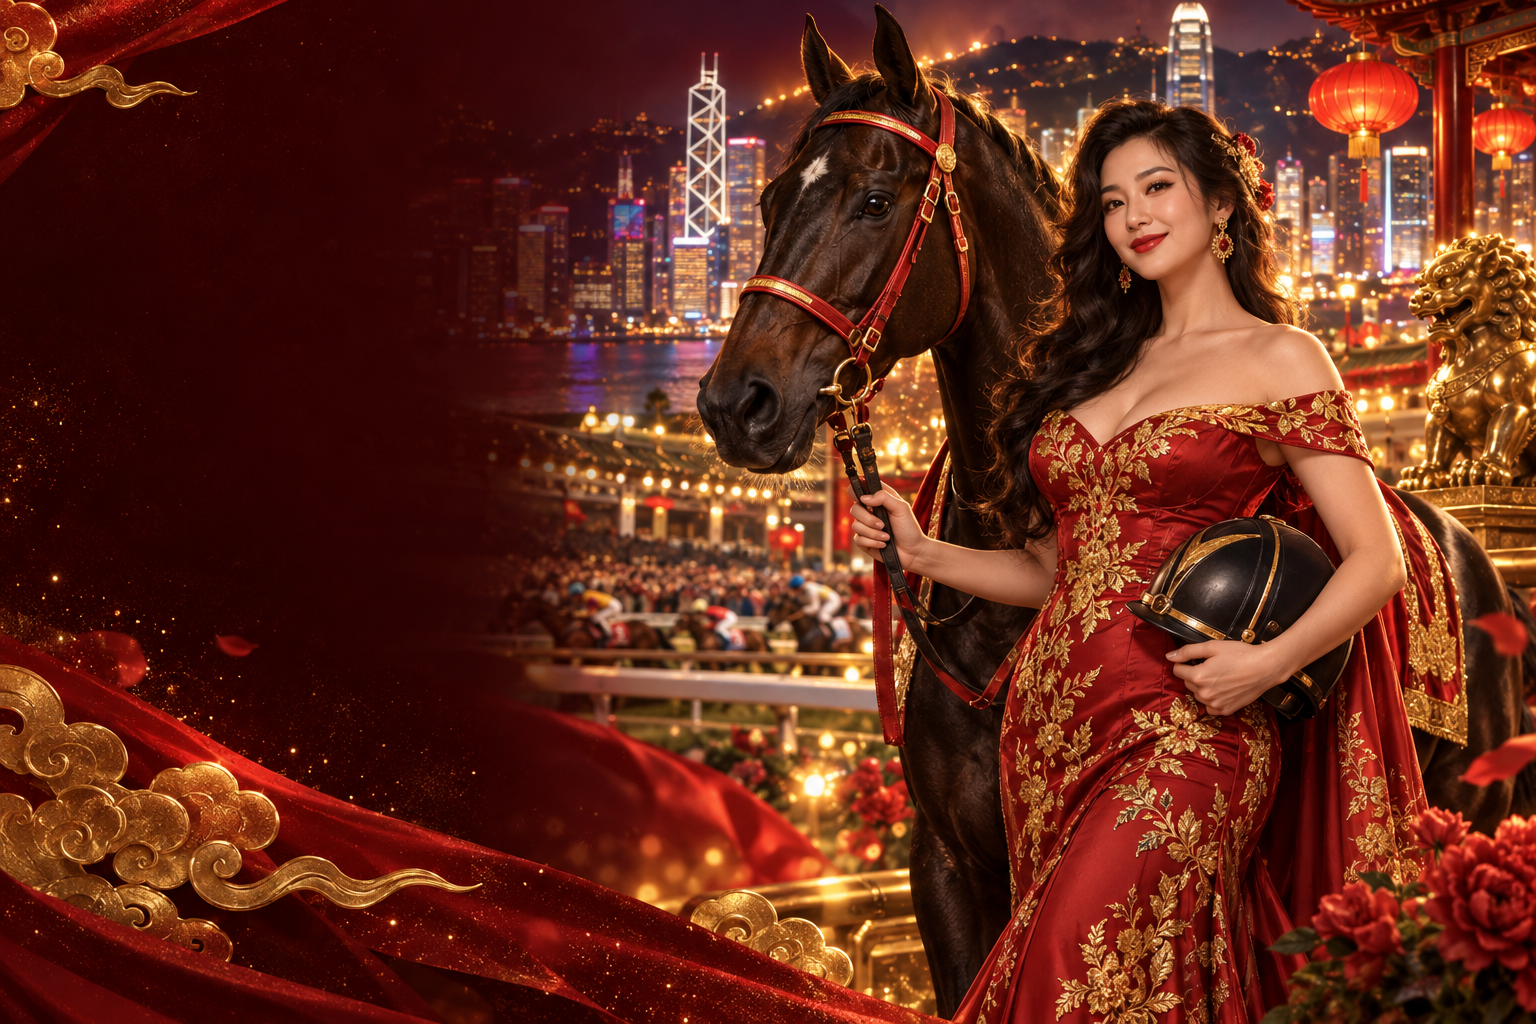
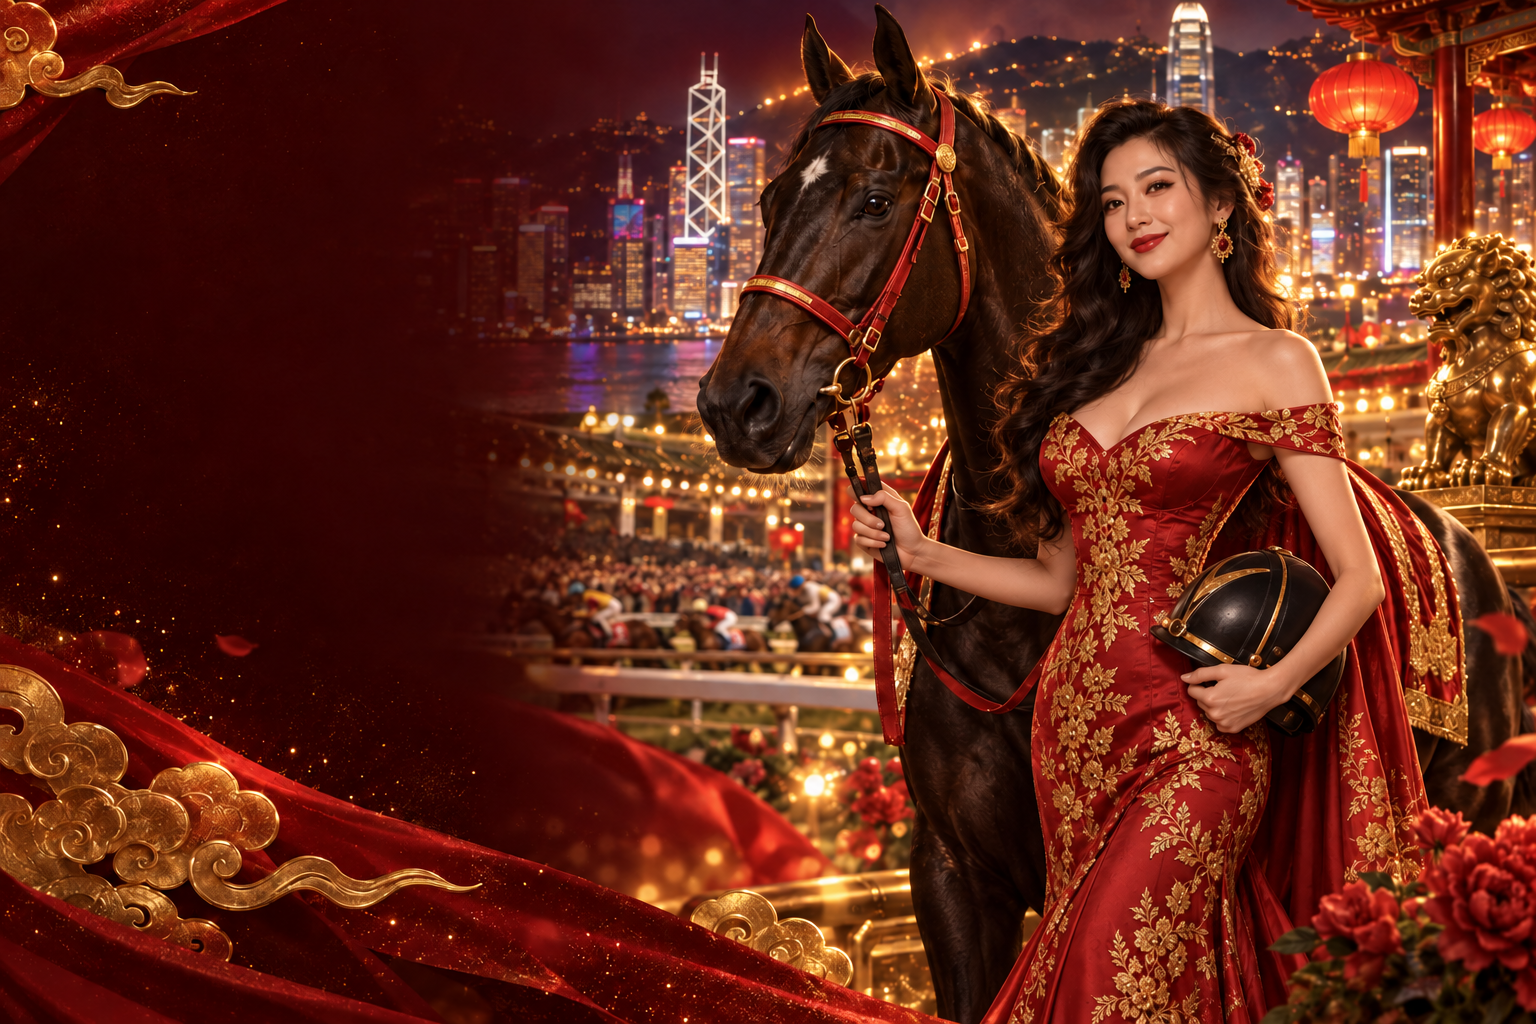
Refine equestrian hero to a slender silhouette

diff --git a/assets/DESIGN.md b/assets/DESIGN.md
@@ -9,10 +9,15 @@ The full-width poster is decorative. Actual race date, course and field metadata
 ## Artwork provenance
 
 - Asset: `assets/hong-kong-hero.png`
-- Method: built-in OpenAI image generation tool; no external stock photo.
+- Method: built-in OpenAI image generation and editing tool; no external stock photo.
 - The generated image is committed with the app and embedded locally at runtime.
 - No real person's reference photo was supplied.
+- Revision: slimmer adult figure with a defined waist and naturally full bust, requested by the user. The previous artwork remains in Git history.
 
-## Final generation prompt
+## Original generation prompt
 
-Use case: ads-marketing. Asset type: wide 1536x1024 hero artwork for an extravagant Hong Kong horse-racing historical analytics website, with all UI typography added later in code. Primary request: maximalist traditional Cantonese / Hong Kong neon casino poster aesthetics, saturated imperial red and bright gold. Subject: one clearly adult 28-year-old glamorous curvaceous East Asian female equestrian fashion model, confident smile, wearing a fitted red-and-gold sleeveless low-cut equestrian-inspired fashion bodice and tailored riding shorts, black knee-high riding boots, holding a riding helmet at her hip; tasteful sexy fashion editorial, fully opaque clothing. Beside her a magnificent dark racehorse with ornate red-and-gold bridle. Composition: woman and horse occupy the RIGHT half, three-quarter length portrait; LEFT half is dark burgundy negative space for large Chinese headlines. Background: Hong Kong neon night atmosphere, red lanterns, traditional gilded cloud motifs and ornamental gold frame corners, cinematic golden rim lights, sparkling gold particles, lacquer red, dramatic glossy luxury, maximalist 1990s Hong Kong entertainment poster art with photoreal subjects. No text, no lettering, no logos, no watermark, no nudity, no minors. Beautiful face, realistic anatomy, crisp fabric and gold embroidery.
+Use case: ads-marketing. Create a wide 1536x1024 landscape hero illustration for a Hong Kong horse racing analytics website. Maximalist 1990s Hong Kong entertainment poster aesthetic, lacquer red, brilliant yellow gold, red lanterns, traditional gilded cloud ornaments, glowing neon night skyline and cinematic gold rim light. On the RIGHT half: a clearly adult 30-year-old glamorous East Asian woman with a curvy figure, confident friendly smile, wearing an elegant opaque red-and-gold off-the-shoulder evening gown with embroidered gold trim, holding an equestrian helmet at her waist, standing beside a majestic dark racehorse with red-and-gold bridle. Fashion editorial presentation, dignified upright pose, beautiful realistic face and anatomy. LEFT half: dark burgundy atmospheric negative space for a large headline added in code. Three-quarter portrait, premium photographic poster style, sparkling gold particles, dramatic luxe visual energy. Fully clothed, no sexual activity, no nudity. No text, no letters, no logos, no watermark.
+
+## Final edit prompt
+
+Edit the supplied hero artwork. Change only the body proportions of the clearly adult 30-year-old fictional woman: give her a noticeably slender fashion-model physique, a slim defined waist, slimmer upper arms and a slim silhouette through the hips, while retaining a naturally full bust. Keep anatomically realistic proportions and the existing fully opaque red-and-gold off-the-shoulder evening gown, fitted neatly to the new silhouette. This is a tasteful glamorous fashion editorial portrait. Preserve her face, adult age, expression, hairstyle, upright pose, hands, helmet, the horse and bridle, Hong Kong skyline, red lanterns, gold ornaments, lighting, red-and-gold palette, camera framing, landscape dimensions and dark empty left half for website text. Do not add text, logos, nudity or other changes.
